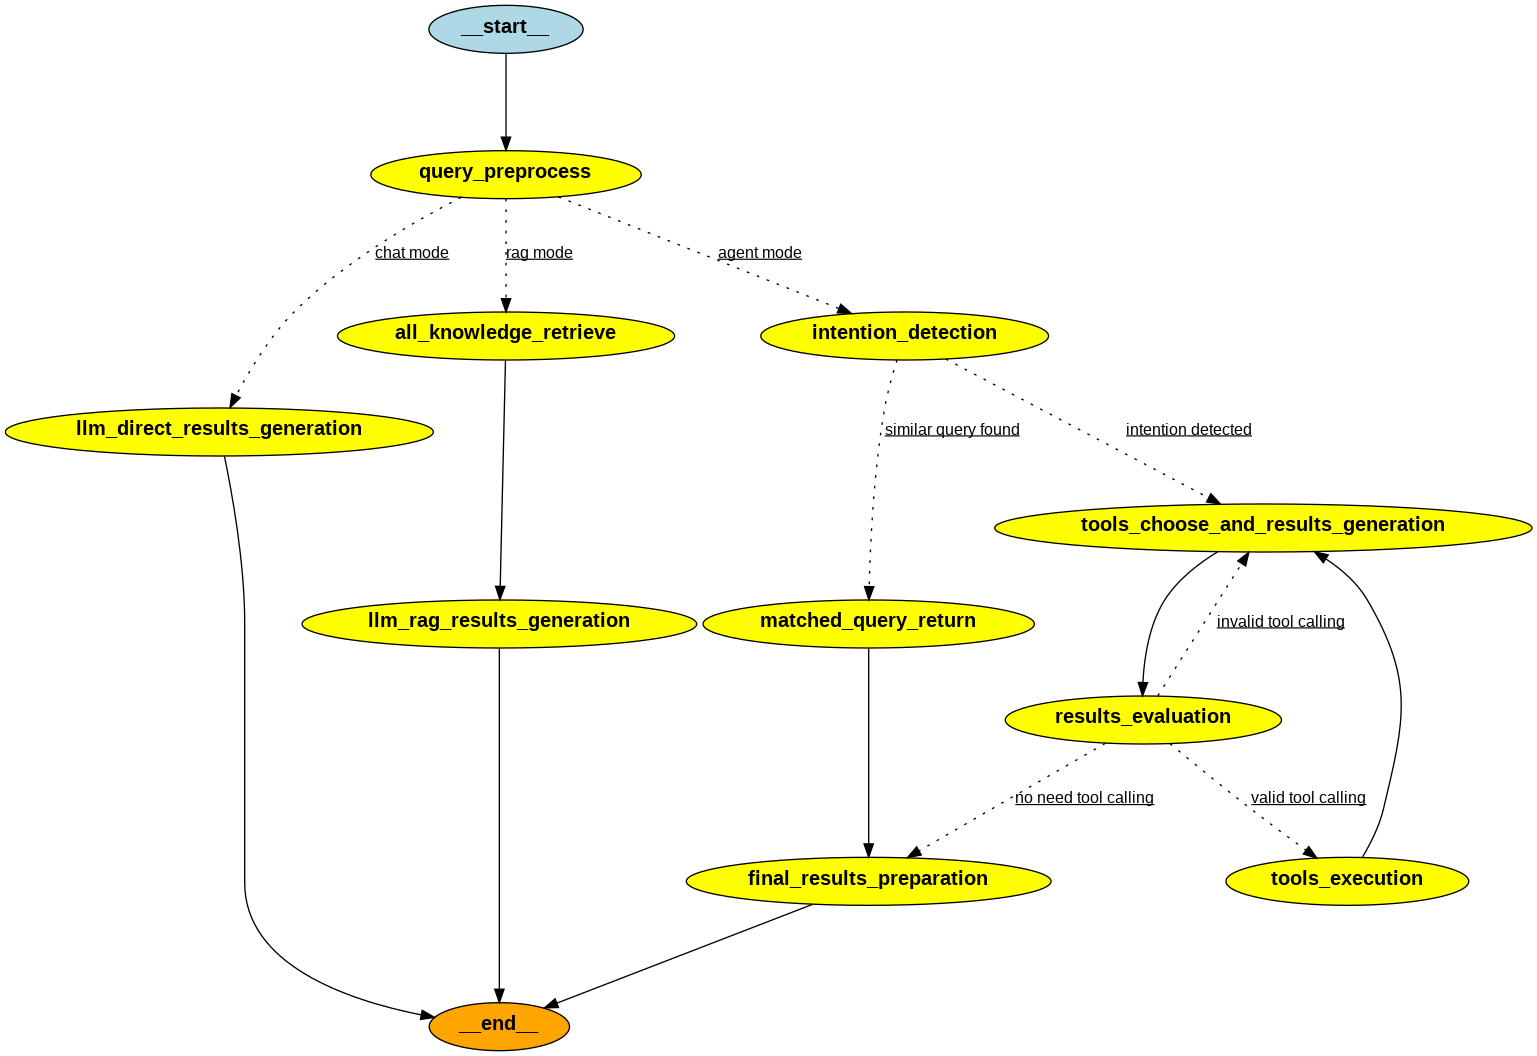
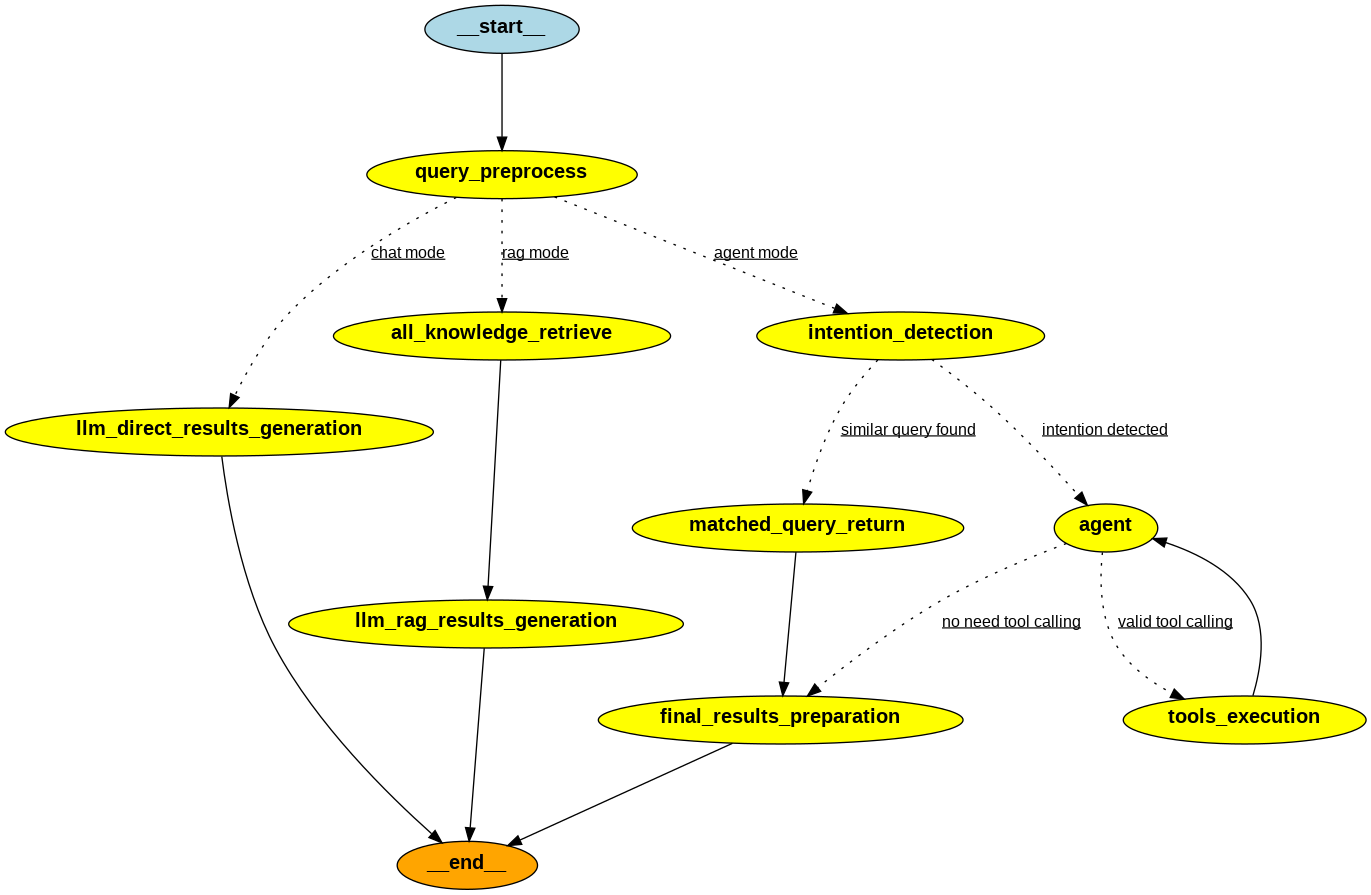
add sub-graph in common entry

diff --git a/source/lambda/online/lambda_main/main_utils/online_entries/common_entry.py b/source/lambda/online/lambda_main/main_utils/online_entries/common_entry.py
@@ -197,6 +197,12 @@ def parse_tool_calling(state: ChatbotState):
 
 
 @node_monitor_wrapper
+def agent(state: ChatbotState):
+    response = app_agent.invoke(state)
+    return response
+
+
+@node_monitor_wrapper
 def tool_execute_lambda(state: ChatbotState):
     """executor lambda
     Args:
@@ -380,9 +386,9 @@ def results_evaluation_route(state: dict):
     else:
         state["current_tool_name"] = ""
 
-    if state["agent_recursion_validation"] and not state["parse_tool_calling_ok"]:
-        return "invalid tool calling"
-    elif state["agent_recursion_validation"] and state["current_tool_name"] in state["valid_tool_calling_names"]:
+    # if state["agent_recursion_validation"] and not state["parse_tool_calling_ok"]:
+    #     return "invalid tool calling"
+    if state["agent_recursion_validation"] and state["current_tool_name"] in state["valid_tool_calling_names"]:
         return "valid tool calling"
     else:
         return "no need tool calling"
@@ -463,9 +469,10 @@ def build_graph():
     # agent mode
     workflow.add_node("intention_detection", intention_detection_lambda)
     workflow.add_node("matched_query_return", qq_matched_reply)
-    workflow.add_node("tools_choose_and_results_generation", agent_lambda)
+    # workflow.add_node("tools_choose_and_results_generation", agent_lambda)
+    workflow.add_node("agent", agent)
     workflow.add_node("tools_execution", tool_execute_lambda)
-    workflow.add_node("results_evaluation", parse_tool_calling)
+    # workflow.add_node("results_evaluation", parse_tool_calling)
     workflow.add_node("final_results_preparation", give_final_response)
     # workflow.add_node("format_reply", format_reply)
     # workflow.add_node("comfort_reply", comfort_reply)
@@ -485,8 +492,8 @@ def build_graph():
     workflow.add_edge("all_knowledge_retrieve", "llm_rag_results_generation")
     workflow.add_edge("llm_rag_results_generation", END)
     # agent mode
-    workflow.add_edge("tools_choose_and_results_generation", "results_evaluation")
-    workflow.add_edge("tools_execution", "tools_choose_and_results_generation")
+    # workflow.add_edge("tools_choose_and_results_generation", "results_evaluation")
+    workflow.add_edge("tools_execution", "agent")
     workflow.add_edge("matched_query_return", "final_results_preparation")
     workflow.add_edge("final_results_preparation", END)
     # workflow.add_edge("rag_all_index_lambda", "rag_llm_lambda")
@@ -525,7 +532,7 @@ def build_graph():
         intent_route,
         {
             "similar query found": "matched_query_return",
-            "intention detected": "tools_choose_and_results_generation",
+            "intention detected": "agent",
             # "no clear intentions": "all_knowledge_retrieve", 
         },
     )
@@ -538,10 +545,10 @@ def build_graph():
     # 4.1 the agent believes that it can produce results without executing tools
     # 4.2 the tools_choose_and_results_generation node reaches its maximum recusion limit
     workflow.add_conditional_edges(
-        "results_evaluation",
+        "agent",
         results_evaluation_route,
         {
-            "invalid tool calling": "tools_choose_and_results_generation",
+            # "invalid tool calling": "tools_choose_and_results_generation",
             "valid tool calling": "tools_execution",
             "no need tool calling": "final_results_preparation",
             # "force to retrieve all knowledge": "all_knowledge_retrieve", 
@@ -576,7 +583,37 @@ def build_graph():
     return app
 
 
+
+
+def build_agent_graph():
+    def _results_evaluation_route(state: dict):
+        state["agent_recursion_validation"] = state['current_agent_recursion_num'] < state['agent_recursion_limit']
+        if state["agent_recursion_validation"] and not state["parse_tool_calling_ok"]:
+            return "invalid tool calling"
+        return "continue"
+
+    workflow = StateGraph(ChatbotState)
+    workflow.add_node("tools_choose_and_results_generation", agent_lambda)
+    workflow.add_node("results_evaluation", parse_tool_calling)
+
+    # edge
+    workflow.set_entry_point("tools_choose_and_results_generation")
+    workflow.add_edge("tools_choose_and_results_generation","results_evaluation")
+    workflow.add_conditional_edges(
+        "results_evaluation",
+        _results_evaluation_route,
+        {
+            "invalid tool calling": "tools_choose_and_results_generation",
+            "continue": END,
+            # "no need tool calling": "final_results_preparation",
+        }
+    )
+    app = workflow.compile()
+    return app
+
+    
 app = None
+app_agent = None
 
 
 def common_entry(event_body):
@@ -585,15 +622,21 @@ def common_entry(event_body):
     :param event_body: The event body for lambda function.
     return: answer(str)
     """
-    global app
+    global app,app_agent
     if app is None:
         app = build_graph()
+    
+    if app_agent is None:
+        app_agent = build_agent_graph()
 
     # debuging
     # TODO only write when run local
     if is_running_local():
         with open("common_entry_workflow.png", "wb") as f:
             f.write(app.get_graph().draw_png())
+        
+        with open("common_entry_agent_workflow.png", "wb") as f:
+            f.write(app_agent.get_graph().draw_png())
             
     ################################################################################
     # prepare inputs and invoke graph

diff --git a/source/lambda/online/lambda_llm_generate/llm_generate_utils/llm_chains/retail_chains/retail_tool_calling_chain_json.py b/source/lambda/online/lambda_llm_generate/llm_generate_utils/llm_chains/retail_chains/retail_tool_calling_chain_json.py
@@ -169,6 +169,9 @@ class Qwen2Instruct7BRetailToolCallingChain(Qwen2Instruct7BChatChain):
     fix_reply_tag = "固定回复"
     goods_info_tag = "商品信息"
     prefill_after_thinking = "Step 1. 根据各个工具的描述与调用示例，以及当前用户的回复"
+    prefill_after_second_thinking = ""
+    prefill = prefill_after_thinking
+
 
     FN_CALL_TEMPLATE_INFO_ZH="""# 工具
 
@@ -201,20 +204,18 @@ class Qwen2Instruct7BRetailToolCallingChain(Qwen2Instruct7BChatChain):
 {{goods_info}}
 
 # 思考
-你的每次回答都要按照下面的步骤输出你的思考过程, 注意你并不需要每次都进行所有步骤的思考。并将思考过程写在 XML 标签 <{thinking_tag}> 和 </{thinking_tag}> 中:
+你每次给出最终回复前都要按照下面的步骤输出你的思考过程, 注意你并不需要每次都进行所有步骤的思考。并将思考过程写在 XML 标签 <{thinking_tag}> 和 </{thinking_tag}> 中:
     Step 1. 根据各个工具的描述，分析当前用户的回复和各个示例中的Input相关性，如果跟某个示例对应的Input相关性强，直接跳过后续所有步骤，之后按照示例中Output的工具名称进行调用。
-    Step 2. 如果你觉得可以依据商品信息，<{goods_info_tag}> 里面的内容，进行回答，就直接就回答，不需要调用任何工具。
+    Step 2. 如果你觉得可以依据商品信息 <{goods_info_tag}> 里面的内容进行回答，就直接就回答，不需要调用任何工具。并结束思考。
     Step 3. 如果你觉得当前用户的回复意图不清晰，或者仅仅是表达一些肯定的内容，或者和历史消息没有很强的相关性，同时当前不是第一轮对话，直接回复用户下面 XML 标签 <{fix_reply_tag}> 里面的内容:
             <{fix_reply_tag}> 亲亲，请问还有什么问题吗？ </{fix_reply_tag}>
-    Step 4. 如果前面已经调用了某些工具, 需要分析之前调用工具的结果来判断现在是否需要继续使用某个工具。
-    Step 5. 基于当前上下文检查需要调用的工具是否需要输入参数，如果需要参数，检查对应的参数是否充足。如果不需要使用任何工具，请直接输出回答。
+    Step 4. 如果需要调用某个工具，检查该工具的必选参数是否可以在上下文中找到。结束思考。
 
-请遵守下面的规范回答用户的问题。
 ## 回答规范
    - 如果客户没有明确指出在哪里购买的商品，则默认都是在天猫平台购买的
    - 当前主要服务天猫平台的客户，如果客户询问其他平台的问题，直接回复 “不好意思，亲亲，这里是天猫店铺，只能为您解答天猫的问题。建议您联系其他平台的客服或售后人员给您提供相关的帮助和支持。谢谢！”
    - 如果客户的回复里面包含订单号，则直接回复 ”您好，亲亲，这就帮您去查相关订单信息。请问还有什么问题吗？“
-   - 只能思考一次，不要重复输出文本，段落，句子。思考之后的文本保持简洁，有且仅能包含一句话。{{non_ask_rules}}"""
+   - 只能思考一次，在结束思考符号“</思考>”之后给出最终的回复。不要重复输出文本，段落，句子。思考之后的文本保持简洁，有且仅能包含一句话。{{non_ask_rules}}"""
 
     @classmethod
     def get_function_description(cls,tool:dict):
@@ -330,7 +331,7 @@ class Qwen2Instruct7BRetailToolCallingChain(Qwen2Instruct7BChatChain):
     @classmethod
     def parse_function_calls_from_ai_message(cls,message:dict):
         stop_reason = message['stop_reason']
-        content =  f"<{cls.thinking_tag}>\n{cls.prefill_after_thinking}" + message['text']
+        content =  f"<{cls.thinking_tag}>\n{cls.prefill}" + message['text']
         content = content.strip()
         stop_reason = stop_reason or ""
     
@@ -354,13 +355,21 @@ class Qwen2Instruct7BRetailToolCallingChain(Qwen2Instruct7BChatChain):
             tools=tools,
             fewshot_examples=fewshot_examples
             )
-    
+
+        current_agent_recursion_num = kwargs['current_agent_recursion_num']
+        
+        # give different prefill
+        if current_agent_recursion_num == 0:
+            cls.prefill = cls.prefill_after_thinking
+        else:
+            cls.prefill = cls.prefill_after_second_thinking
+
         model_kwargs = model_kwargs or {}
         kwargs['system_prompt'] = system_prompt
         model_kwargs = {**model_kwargs}
         model_kwargs["stop"] = model_kwargs.get("stop",[]) + ['✿RESULT✿', '✿RESULT✿:', '✿RESULT✿:\n','✿RETURN✿',f'<{cls.fix_reply_tag}>',f'</{cls.fix_reply_tag}>',f'<{cls.thinking_tag}>']
         # model_kwargs["prefill"] = "我先看看调用哪个工具，下面是我的思考过程:\n<thinking>\nstep 1."
-        model_kwargs["prefill"] = f'<{cls.thinking_tag}>\n{cls.prefill_after_thinking}'
+        model_kwargs["prefill"] = f'<{cls.thinking_tag}>\n{cls.prefill}'
         return super().create_chain(model_kwargs=model_kwargs,**kwargs)
         
 

diff --git a/source/lambda/online/lambda_main/test/main_local_test_retail.py b/source/lambda/online/lambda_main/test/main_local_test_retail.py
@@ -157,7 +157,7 @@ def batch_test(data_file, count=1000,add_eval_score=True,record_goods_id=False):
     if record_goods_id:
         chatbot_config["history_config"]=['goods_id']
 
-    save_csv_path = f'{session_prefix}_anta_test_qwen2-72b-instruct_{len(data)}.csv'
+    save_csv_path = f'anta_test/{session_prefix}_anta_test_qwen2-72b-instruct_{len(data)}.csv'
 
 
     def _auto_eval_thread_helper(ret_q:queue.Queue):
@@ -320,14 +320,15 @@ def complete_test():
 
 if __name__ == "__main__":
     # complete_test()
-    # test_multi_turns_anta("cn****0043",record_goods_id=True)
+    # test_multi_turns_anta("cn****0046",record_goods_id=True)
     # test_multi_turns()
     # test_multi_turns_0090() 
     # test_multi_turns_0077()
     # test_multi_turns_pr("agent")
     batch_test(
         data_file="/efs/projects/aws-samples-llm-bot-branches/aws-samples-llm-bot-dev-online-refactor/customer_poc/anta/anta_batch_test - batch-test-csv-file-626.csv",
-        record_goods_id=True)
+        record_goods_id=True
+    )
     # batch_test()
     # test(
     #     chatbot_mode='agent',

diff --git a/source/lambda/online/lambda_main/main_utils/online_entries/retail_entry.py b/source/lambda/online/lambda_main/main_utils/online_entries/retail_entry.py
@@ -162,7 +162,11 @@ def agent_lambda(state: ChatbotState):
     current_agent_output:dict = invoke_lambda(
         event_body={
             **state,
-            "other_chain_kwargs":{"goods_info": goods_info, "create_time": state['create_time']}
+            "other_chain_kwargs":{
+                "goods_info": goods_info,
+                "create_time": state['create_time'],
+                "current_agent_recursion_num":state['current_agent_recursion_num']
+                }
         },
         lambda_name="Online_Agent",
         lambda_module_path="lambda_agent.agent",
